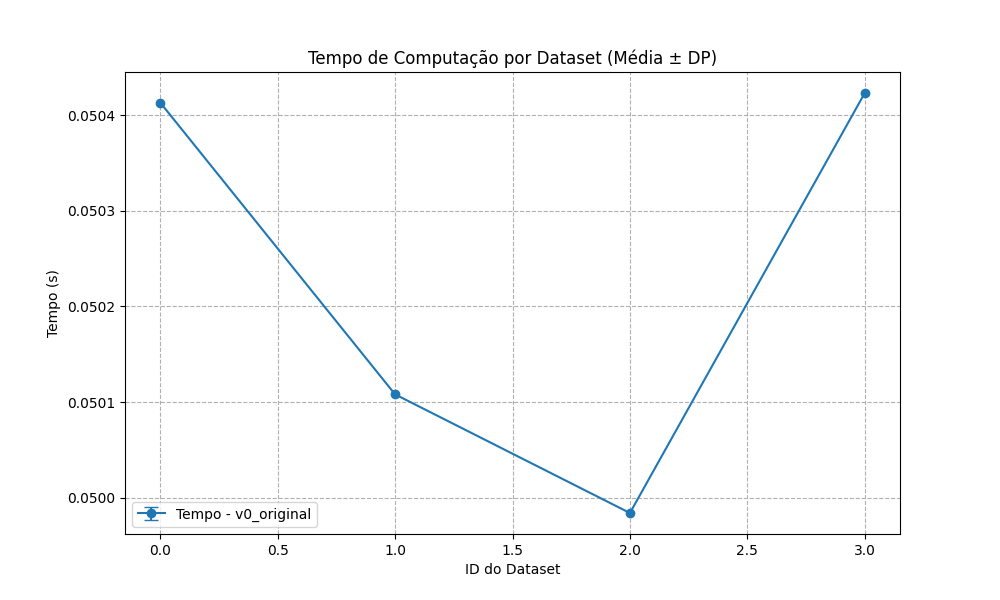
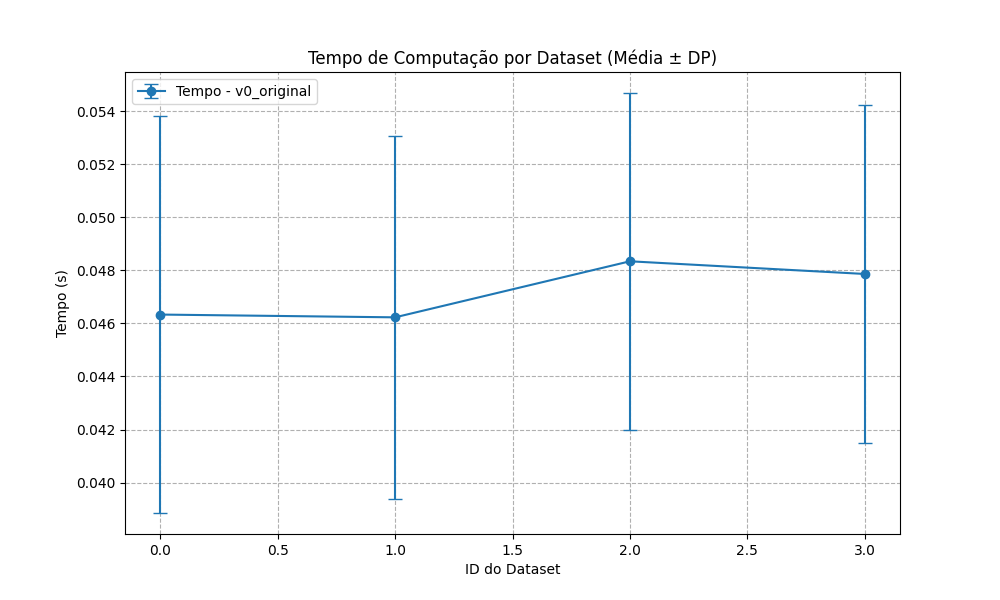
fix: NaN on standard deviation calculation

diff --git a/T3/calculate.py b/T3/calculate.py
@@ -1,44 +1,50 @@
 import pandas as pd
 import matplotlib.pyplot as plt
-import numpy as np
 
 def processar_resultados():
     try:
         df = pd.read_csv('results_brutos.csv')
+        if df.empty:
+            print("Erro: O arquivo results_brutos.csv está vazio.")
+            return
+            
+        # Forçar conversão para numérico para evitar erros de string
+        df['tempo'] = pd.to_numeric(df['tempo'], errors='coerce')
+        df = df.dropna(subset=['tempo'])
+
+        # Agrupar e calcular 
+        stats = df.groupby(['versao', 'dataset']).agg({
+            'tempo': ['mean', 'std', 'count'],
+            'code_sz': 'first',
+            'data_sz': 'first'
+        }).reset_index()
+
+        stats.columns = ['Versão', 'Dataset', 'Média', 'Desvio', 'Amostras', 'Flash', 'RAM']
+        
+        # Preencher NaN no desvio com 0.0 (ocorre se Amostras < 2)
+        stats['Desvio'] = stats['Desvio'].fillna(0.0)
+
+        print("\n--- ESTATÍSTICAS DA EXPERIMENTAÇÃO ---")
+        print(stats.to_string(index=False))
+        
+        stats.to_csv('relatorio_final.csv', index=False)
+
+        # Gráfico 
+        plt.figure(figsize=(10, 6))
+        for versao in stats['Versão'].unique():
+            sub = stats[stats['Versão'] == versao]
+            plt.errorbar(sub['Dataset'], sub['Média'], yerr=sub['Desvio'], 
+                         fmt='-o', capsize=5, label=versao)
+
+        plt.title('Performance do Algoritmo: Média e Desvio Padrão')
+        plt.xlabel('Dataset ID')
+        plt.ylabel('Tempo (s)')
+        plt.legend()
+        plt.grid(True)
+        plt.savefig('melhoria_grafico.png')
+        
     except Exception as e:
-        print(f"Erro ao ler CSV: {e}")
-        return
-
-    # Agrupar por Versão e Dataset
-    stats = df.groupby(['versao', 'dataset']).agg({
-        'tempo': ['mean', 'std'],
-        'code_sz': 'first',
-        'data_sz': 'first'
-    }).reset_index()
-
-    # Flatten nas colunas
-    stats.columns = ['Versão', 'Dataset', 'Tempo_Media', 'Tempo_Desvio', 'Flash_Bytes', 'RAM_Bytes']
-    
-    print("\n--- RESUMO DE DESEMPENHO ---")
-    print(stats.to_string(index=False))
-    
-    # Salvar tabela para o slide
-    stats.to_csv('relatorio_final.csv', index=False)
-
-    # Gerar Gráfico de Comparação de Tempo
-    plt.figure(figsize=(10, 6))
-    for versao in stats['Versão'].unique():
-        subset = stats[stats['Versão'] == versao]
-        plt.errorbar(subset['Dataset'], subset['Tempo_Media'], yerr=subset['Tempo_Desvio'], 
-                     fmt='-o', capsize=5, label=f'Tempo - {versao}')
-
-    plt.title('Tempo de Computação por Dataset (Média ± DP)')
-    plt.xlabel('ID do Dataset')
-    plt.ylabel('Tempo (s)')
-    plt.legend()
-    plt.grid(True, linestyle='--')
-    plt.savefig('comparativo_tempo.png')
-    print("\n[SUCESSO] Gráfico 'comparativo_tempo.png' gerado.")
+        print(f"Erro no processamento: {e}")
 
 if __name__ == "__main__":
     processar_resultados()
